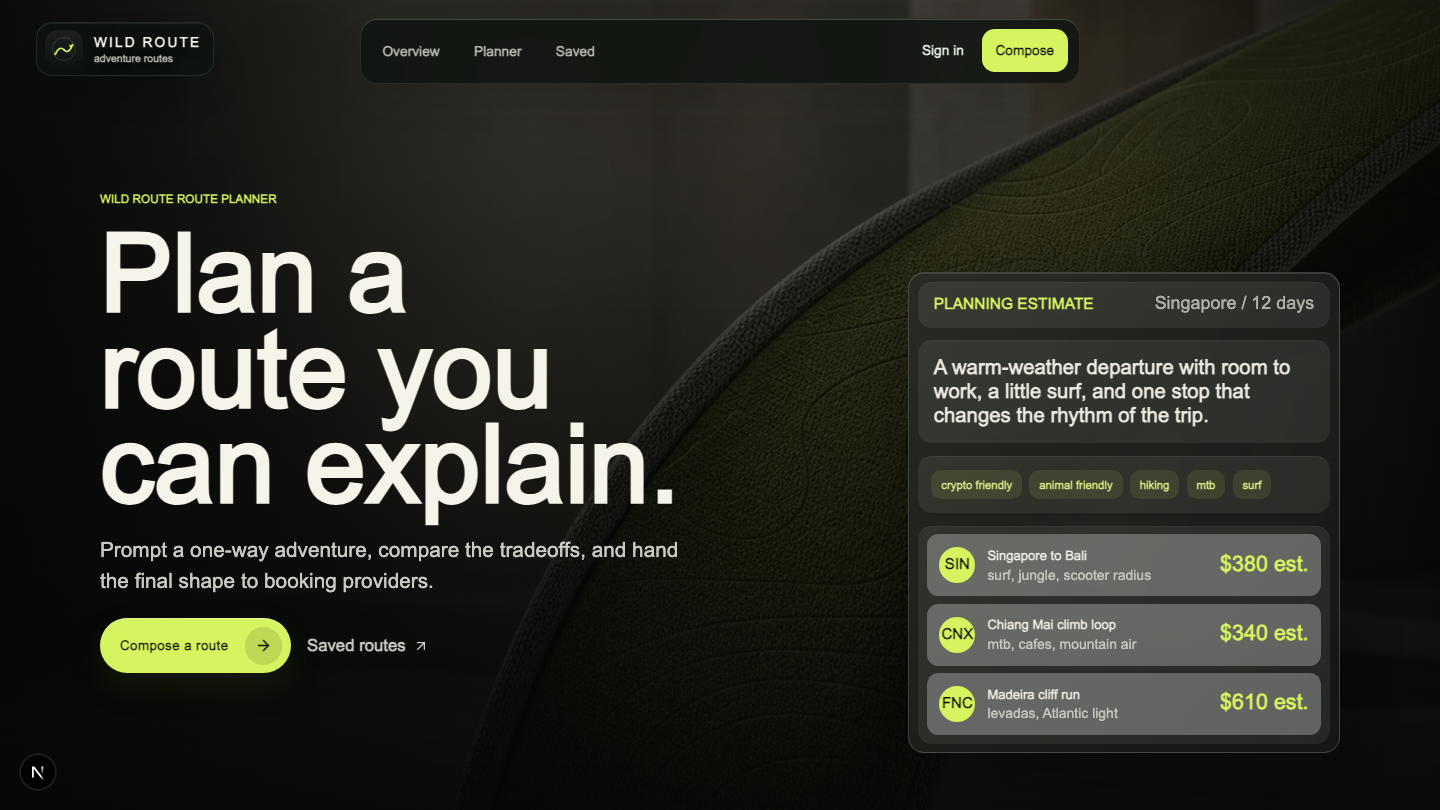
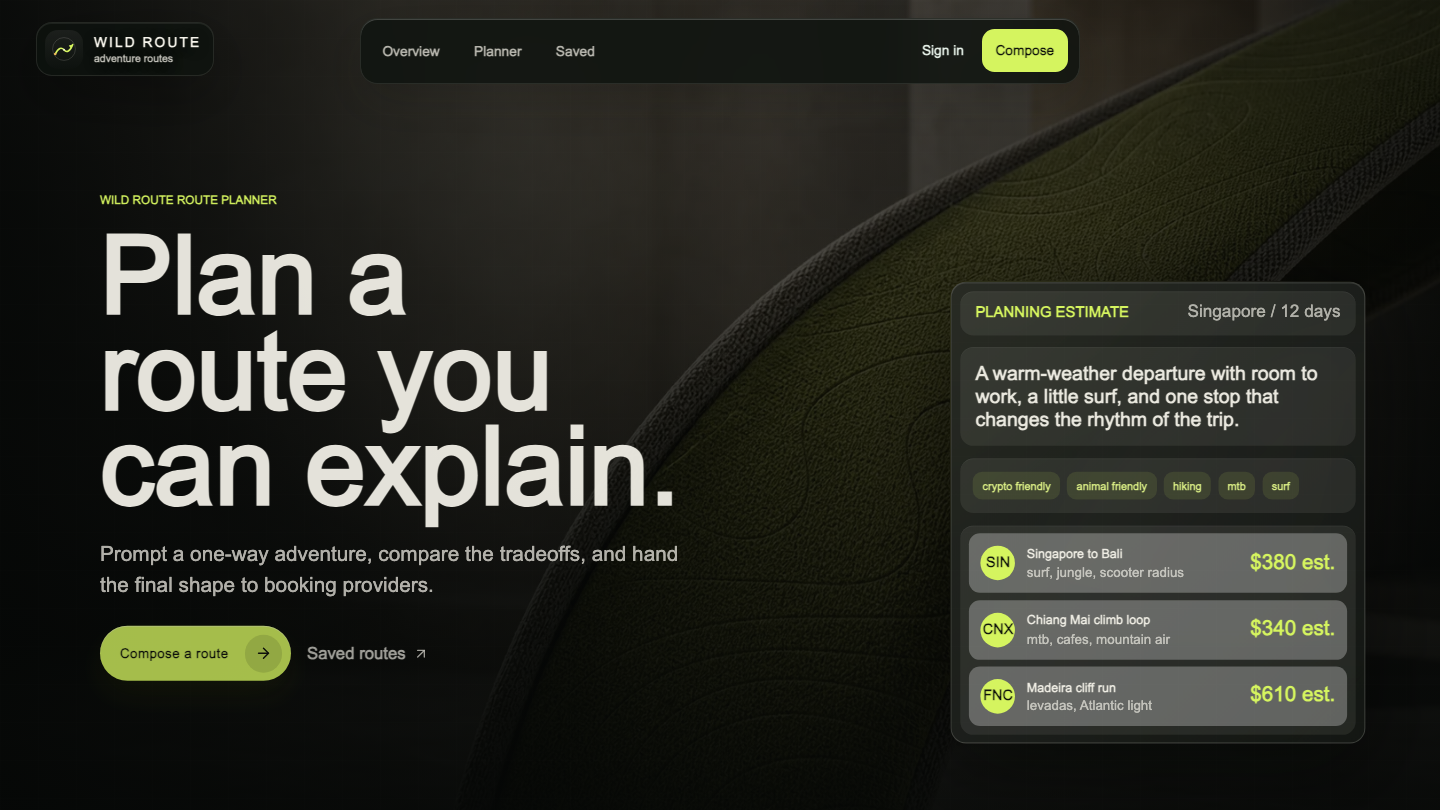
fix: update text descriptions and image alt attributes in wild route section for improved clarity and accuracy

diff --git a/app/(work)/wild-route/page.tsx b/app/(work)/wild-route/page.tsx
@@ -53,7 +53,7 @@ const compositionSteps = [
   },
   {
     title: "Compare route shapes",
-    text: "The interface keeps four recommendations in view, then opens the selected path with confidence, stop order, save, share, and handoff actions.",
+    text: "The interface keeps four recommendations in view, then opens the selected path with ranking reasons, estimate boundaries, and handoff actions.",
   },
 ];
 
@@ -248,7 +248,7 @@ export default function WildRoutePage() {
             >
               <Image
                 src="/images/wild-route/planner.png"
-                alt="Wild Route planner route composition workspace"
+                alt="Wild Route selected-route planner with ranking reasons and estimate boundary"
                 fill
                 className="object-cover"
               />